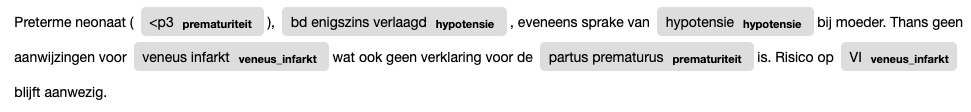
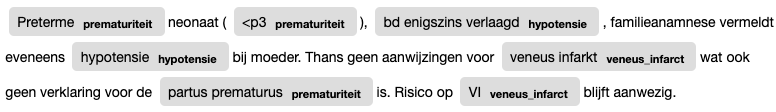
Update text example

diff --git a/README.md b/README.md
@@ -36,7 +36,7 @@ nlp.add_pipe("clinlp_sentencizer")
 # Entities
 concepts = {
     "prematuriteit": [
-        "prematuur", "preterm", "prematuriteit", "partus praematurus"
+        "preterm", "<p3", "prematuriteit", "partus praematurus"
     ],
     "hypotensie": [
         "hypotensie", Term("bd verlaagd", proximity=1)
@@ -46,14 +46,14 @@ concepts = {
     ]
 }
 
-entity_matcher = nlp.add_pipe("clinlp_entity_matcher", config={"fuzzy": 1})
+entity_matcher = nlp.add_pipe("clinlp_entity_matcher", config={"attr": "NORM", "fuzzy": 1})
 entity_matcher.load_concepts(concepts)
 
 # Qualifiers
 nlp.add_pipe("clinlp_context_algorithm", config={"phrase_matcher_attr": "NORM"})
 
 text = (
-    "Preterme neonaat (<p3), bd enigszins verlaagd, eveneens sprake van hypotensie "
+    "Preterme neonaat (<p3), bd enigszins verlaagd, familieanamnese vermeldt eveneens hypotensie "
     "bij moeder. Thans geen aanwijzingen voor veneus infarkt wat ook geen "
     "verklaring voor de partus prematurus is. Risico op VI blijft aanwezig."
 )
@@ -76,9 +76,9 @@ With relevant qualifiers:
 ```python
 for ent in doc.ents:
   print(ent.start, ent.end, ent, ent._.qualifiers_str)
-
 ```
 
+`0` `1` `Preterme` `set()`
 `3` `5` `<p3` `set()`
 `7` `10` `bd enigszins verlaagd` `set()`
 `14` `15` `hypotensie` `{'Experiencer.OTHER'}`
